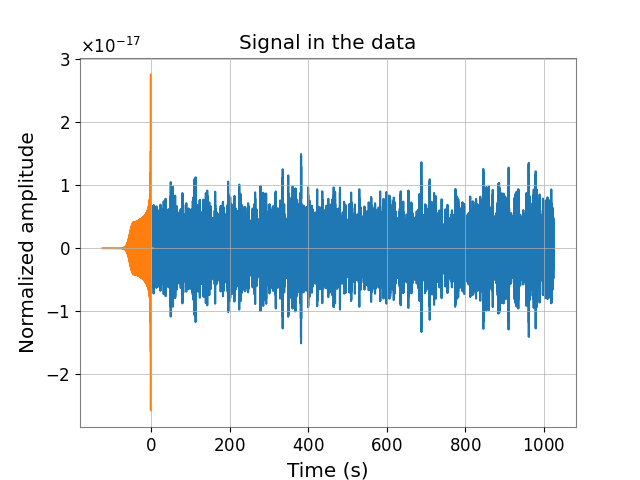
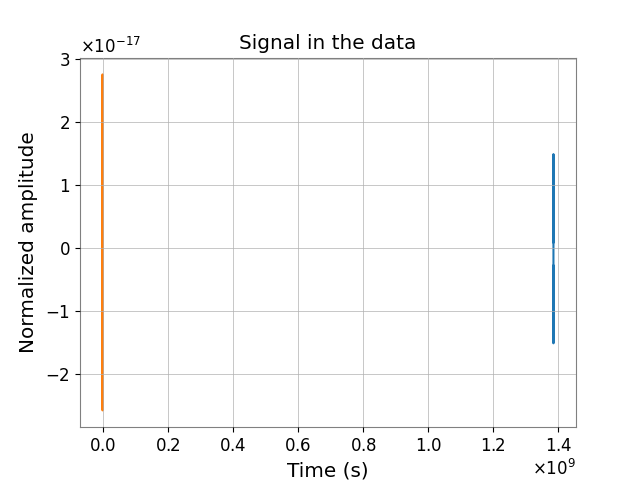
Worked on merger stuff

diff --git a/waveform_analysis.py b/waveform_analysis.py
@@ -40,40 +40,79 @@ ldata = TimeSeries.fetch_open_data('L1', *segment, verbose = True, cache = True)
 print("Livingston Strain")
 print(ldata)
 print("")
+print(ldata.dt)
+print("")
+
+print(ldata.value)
+
+from pycbc.waveform.waveform import get_td_waveform
+apx = 'IMRPhenomD'
+hp1, _ = get_td_waveform(approximant=apx,
+                         mass1=137,
+                         mass2=101,
+                         delta_t=float(ldata.dt),
+                         f_lower=2)
+
+print("")
+print(ldata.times)
+print("")
+print(hp1.sample_times)
+'''
+plt.figure()
+plt.title("Signal in the data")
+plt.plot(ldata.times, ldata.value)
+plt.plot(hp1.sample_times, 10 * hp1)
+plt.xlabel('Time (s)')
+plt.ylabel('Normalized amplitude')
+plt.savefig('waveform-overlay.png')
+print("Overlay plot done!")
+'''
+
 
 # specify the sample rate.
 # LIGO raw data is sampled at 16384 Hz (=2^14 samples/second).
 # It captures signal frequency content up to f_Nyquist = 8192 Hz.
 # Here, we will make the computation faster by sampling at a lower rate.
-sample_rate = 4096 # samples per second
-data_length = len(ldata) # seconds
-data = ldata
+# sample_rate = 4096 # samples per second
+# data_length = len(ldata) # seconds
+# data = ldata
 
 # ldata.plot()
 # plt.savefig('ligo-strain-test.png')
 # print("plot done!")
 
 # plt.plot(times, data)
-data.plot()
-plt.xlabel('Time(s)')
-plt.savefig('waveform-rawdata.png')
-print("Strain data plot done!")
+# data.plot()
+# plt.xlabel('Time(s)')
+# plt.savefig('waveform-rawdata.png')
+# print("Strain data plot done!")
+
+
 
 # data = numpy.random.normal(size=[sample_rate * data_length])
-times = numpy.arange(len(data)) / float(sample_rate)
+# times = numpy.arange(len(data)) / float(sample_rate)
 
-from pycbc.waveform.waveform import get_td_waveform
+# from pycbc.waveform.waveform import get_td_waveform
+# plt.figure()
+# plt.title("The waveform hp1")
+# plt.plot(hp1.sample_times, hp1)
+# plt.xlabel('Time (s)')
+# plt.ylabel('Normalized amplitude')
+# plt.savefig('waveform_approx.png')
+# print("Waveform plot done!")
+
+
 
 # the "approximant" (jargon for parameterized waveform family).
 # IMRPhenomD(a phenomenological Inspiral–Merger–Ringdown wafeform model) is defined in the frequency domain, but we'll get it in the time domain (td).
 # It runs fast, but it doesn't include effects such as non-aligned component spin, or higher order modes.
-apx = 'IMRPhenomD'
+# apx = 'IMRPhenomD'
 
-hp1, _ = get_td_waveform(approximant=apx,
-                         mass1=137,
-                         mass2=101,
-                          delta_t=1.0/sample_rate,
-                         f_lower=2)
+# hp1, _ = get_td_waveform(approximant=apx,
+#                          mass1=137,
+#                          mass2=101,
+#                           delta_t=1.0/sample_rate,
+#                          f_lower=2)
 
 # hp1 = hp1 / max(numpy.correlate(hp1, hp1, mode='full'))**0.5
 
@@ -81,23 +120,16 @@ hp1, _ = get_td_waveform(approximant=apx,
 # The duration (for frequency above f_lower=25 Hz) is only 3 or 4 seconds long.
 # The waveform is "tapered": slowly ramped up from zero to full strength, over the first second or so.
 # It is zero-padded at earlier times.
-plt.figure()
-plt.title("The waveform hp1")
-plt.plot(hp1.sample_times, hp1)
-plt.xlabel('Time (s)')
-plt.ylabel('Normalized amplitude')
-plt.savefig('waveform_approx.png')
-print("Waveform plot done!")
+# plt.figure()
+# plt.title("The waveform hp1")
+# plt.plot(hp1.sample_times, hp1)
+# plt.xlabel('Time (s)')
+# plt.ylabel('Normalized amplitude')
+# plt.savefig('waveform_approx.png')
+# print("Waveform plot done!")
 
 
-plt.figure()
-plt.title("Signal in the data")
-plt.plot(times, data)
-plt.plot(hp1.sample_times, 10 * hp1)
-plt.xlabel('Time (s)')
-plt.ylabel('Normalized amplitude')
-plt.savefig('waveform-overlay.png')
-print("Overlay plot done!")
+
 
 ## Cross Correlation is currently taking a very long time to complete.
 '''
